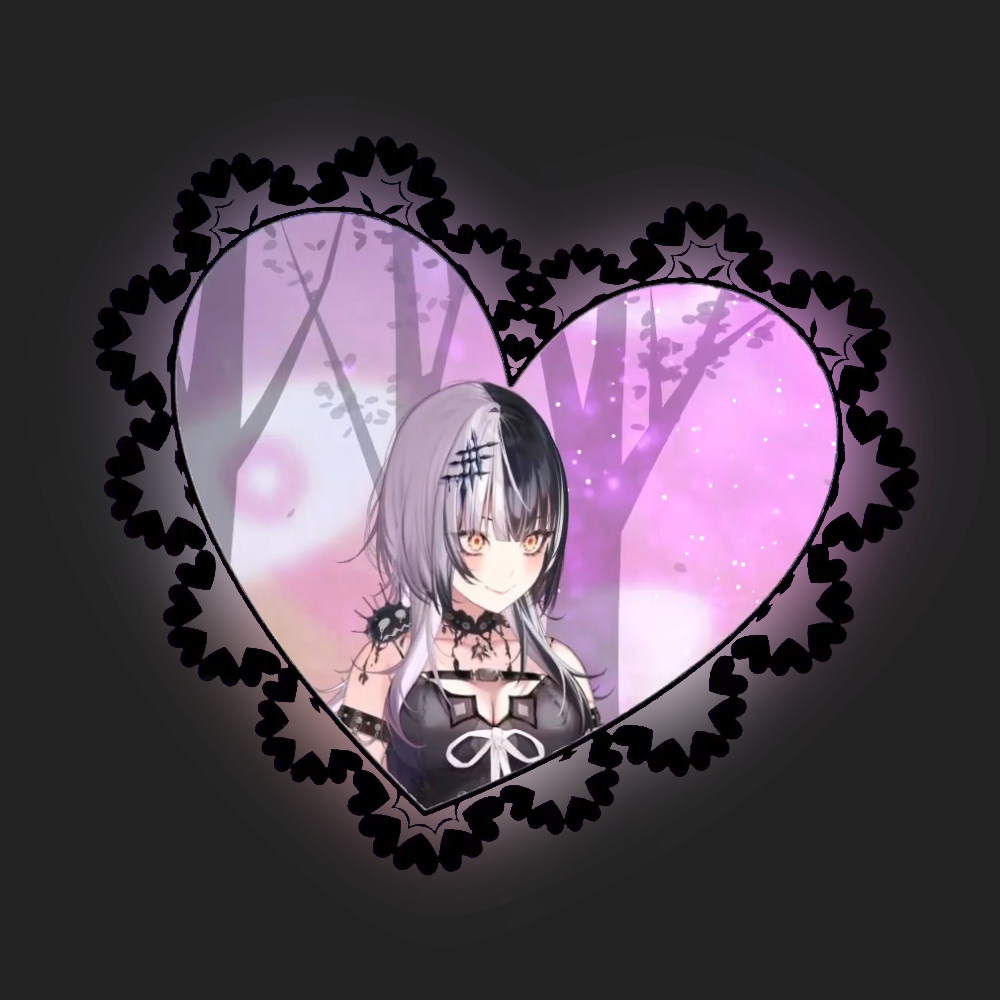
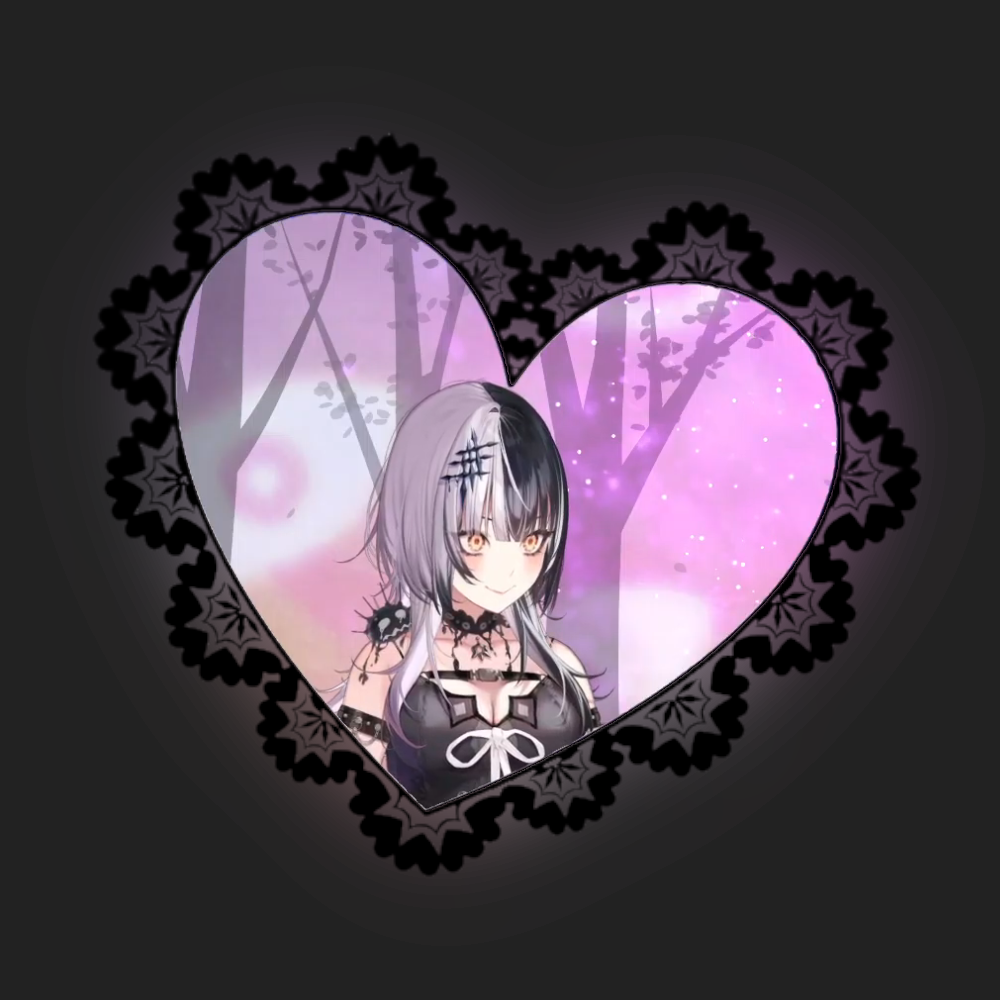
update image and border

Changed region(s): [[0.124, 0.155, 0.899, 0.868]]

diff --git a/style.css b/style.css
@@ -31,6 +31,10 @@ html, body {
   background-color: #222;
 }
 
+.image {
+  border: none;
+}
+
 .the-button:not(:hover) .image {
   opacity: 0.3;
 }
@@ -40,6 +44,5 @@ html, body {
 }
 
 div.image::before {
-  border: none;
   content:url(shiori_heart_1.png);
 };
